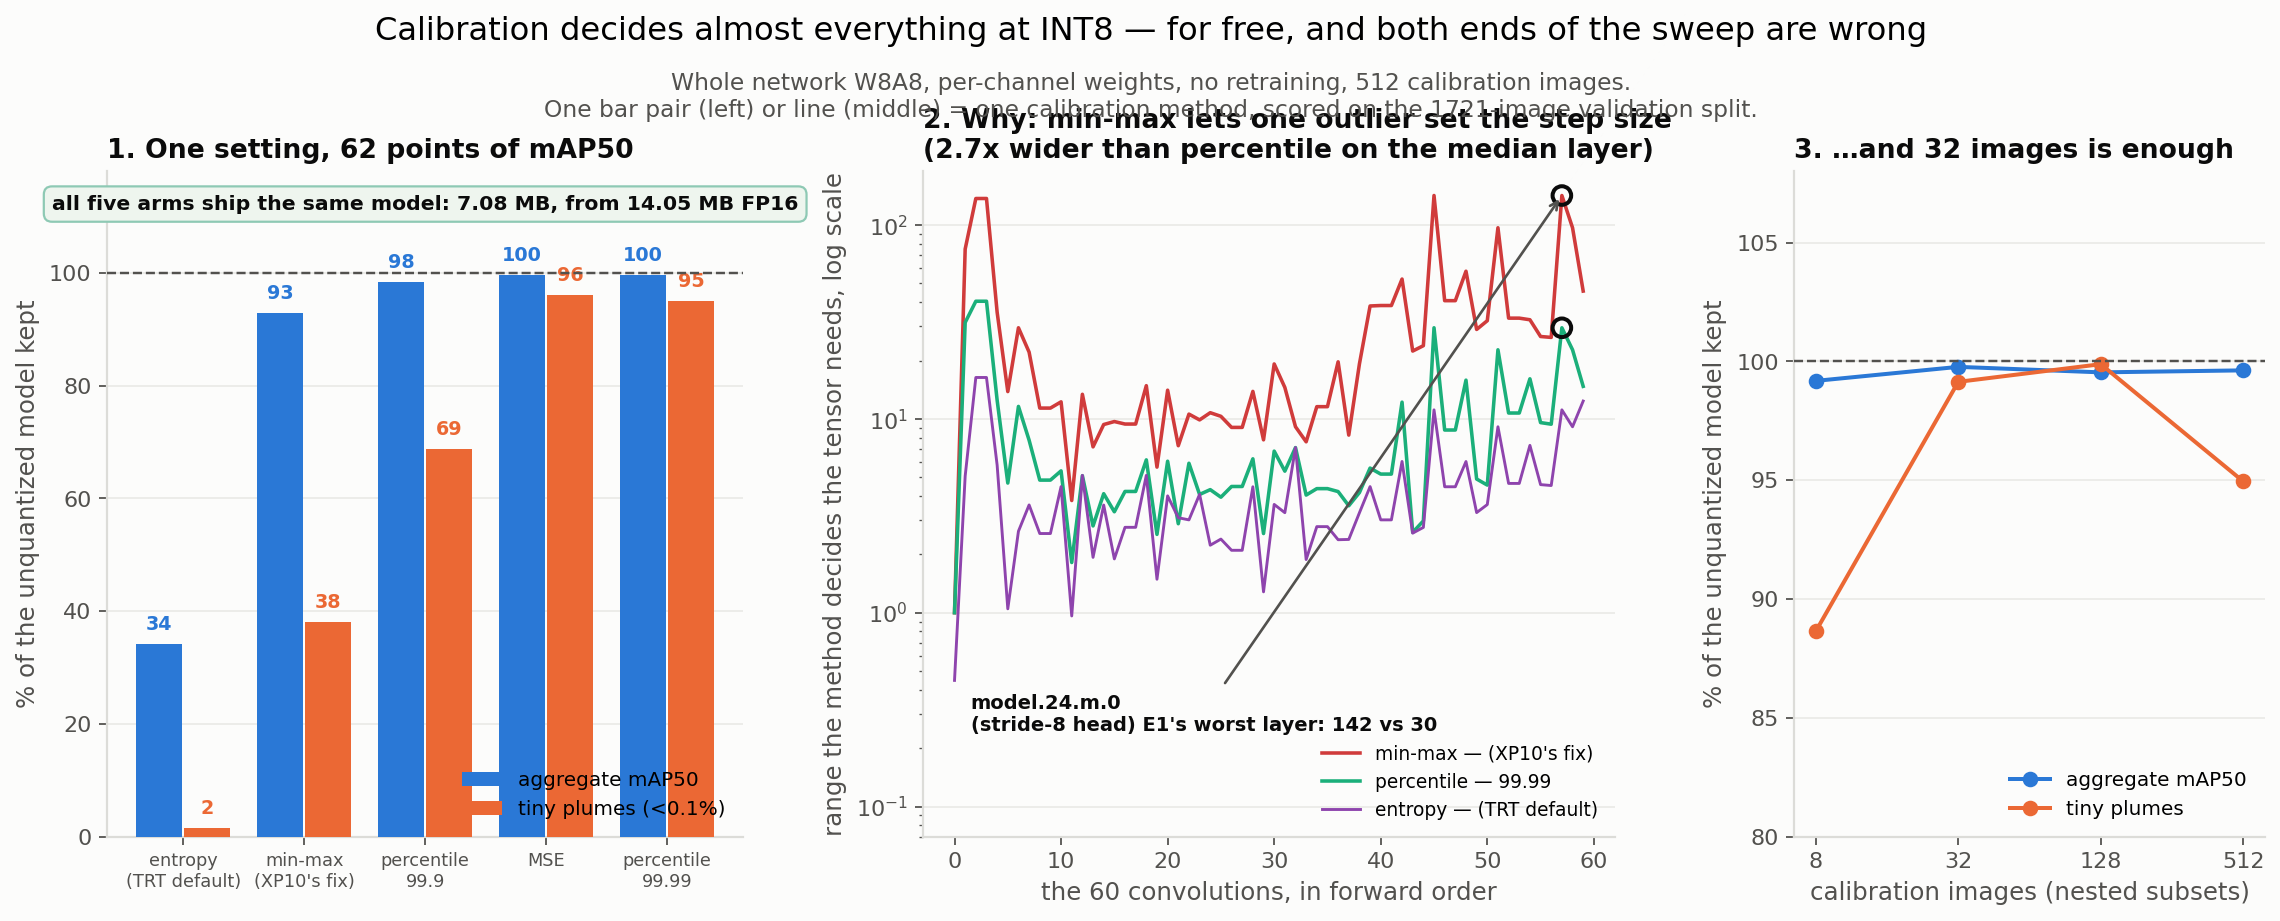
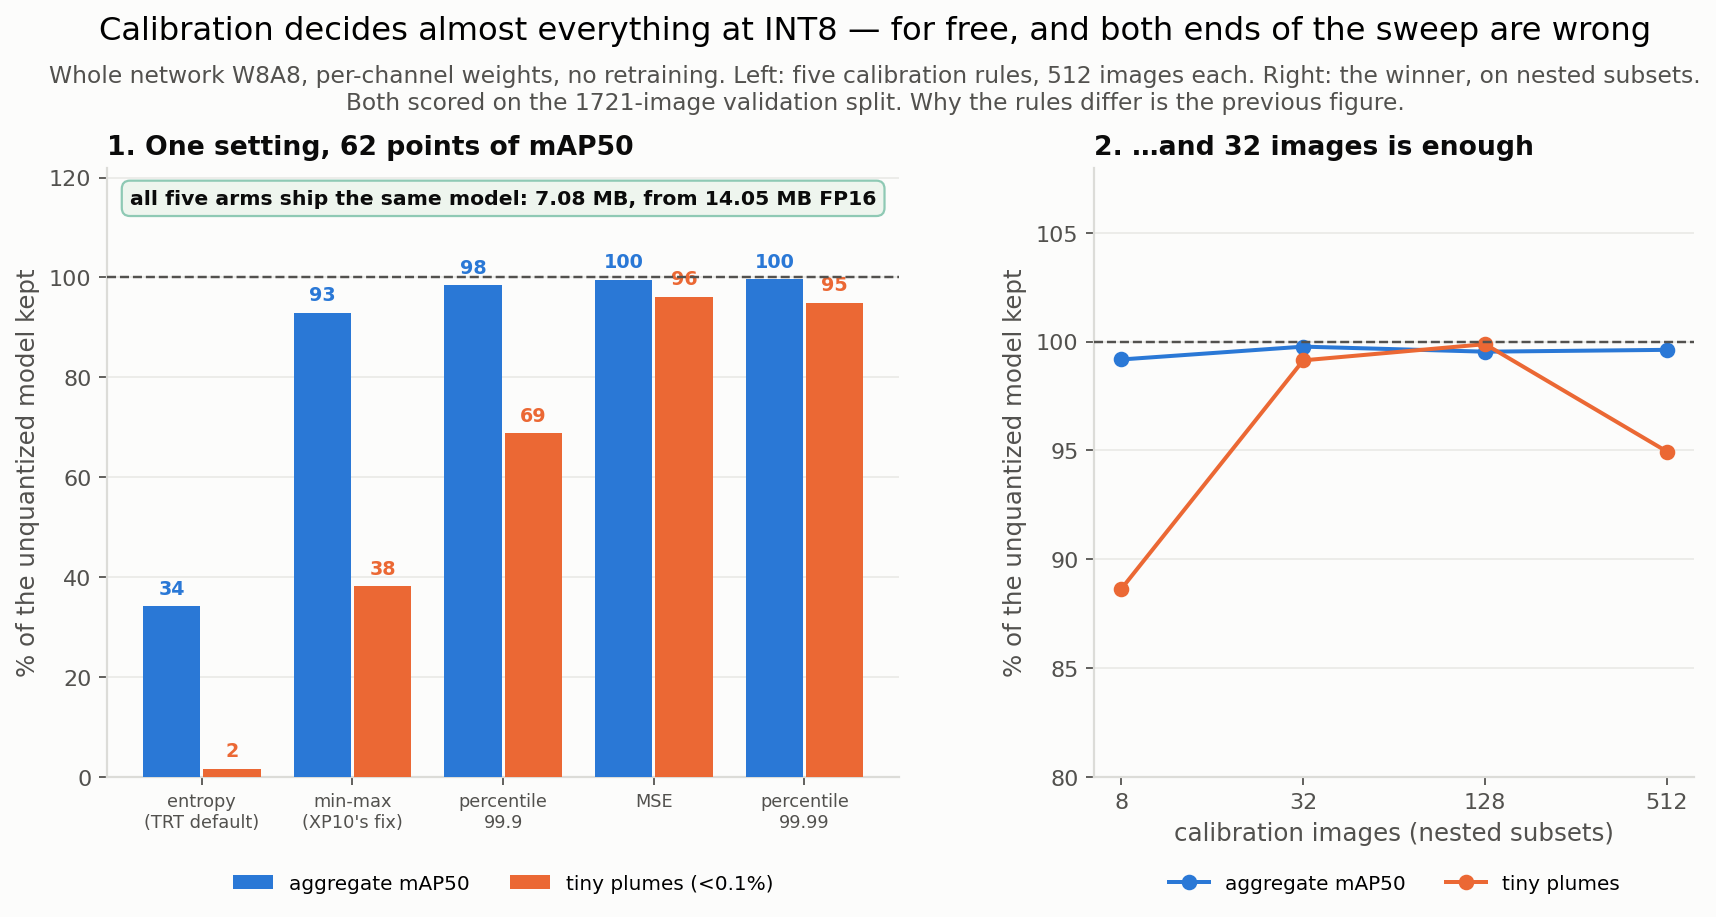
XP7-E2: cut the results figure to two panels and fix its collisions
The three-panel version had overlaps in several places: the middle panel's
two-line title ran into the figure subtitle, and panel 1's legend sat on top
of the MSE and percentile bars.

The middle panel - per-layer ranges chosen by each method - is dropped. It was
the mechanism, and the mechanism now has its own figure (xp07_clipping.png),
which explains it better than a 60-line plot did. Its measured claim survives
as text in the README: min-max is 2.7x wider on the median layer, up to 8.6x.

What remains is the two things E2 actually measured:
  1. which rule you pick    - 62 points of mAP50, all shipping 7.08 MB
  2. how much data it needs - 32 images

Both legends moved outside the axes, so nothing can sit on a bar again.

diff --git a/analysis/make_figures.py b/analysis/make_figures.py
@@ -2905,13 +2905,14 @@ def fig_xp07e2(records) -> Path | None:
             "percentile_99.9": "percentile\n99.9",
             "mse": "MSE", "percentile_99.99": "percentile\n99.99"}
 
-    fig = plt.figure(figsize=(17.4, 5.4))
-    gs = fig.add_gridspec(1, 3, width_ratios=[1.15, 1.25, 0.85], wspace=0.30)
+    fig = plt.figure(figsize=(12.8, 5.6))
+    gs = fig.add_gridspec(1, 2, width_ratios=[1.32, 1.0], wspace=0.28)
     fig.suptitle("Calibration decides almost everything at INT8 — for free, and both ends "
-                 "of the sweep are wrong", y=1.06, fontsize=14.5)
-    style.subtitle(fig, "Whole network W8A8, per-channel weights, no retraining, 512 calibration "
-                        "images.\nOne bar pair (left) or line (middle) = one calibration method, "
-                        f"scored on the {d['n_val_images']}-image validation split.", y=0.995)
+                 "of the sweep are wrong", y=1.05, fontsize=14.5)
+    style.subtitle(fig, "Whole network W8A8, per-channel weights, no retraining. Left: five "
+                        "calibration rules, 512 images each. Right: the winner, on nested "
+                        f"subsets.\nBoth scored on the {d['n_val_images']}-image validation "
+                        "split. Why the rules differ is the previous figure.", y=0.995)
 
     # ---- panel 1: what each method costs --------------------------------
     ax = fig.add_subplot(gs[0, 0])
@@ -2932,6 +2933,7 @@ def fig_xp07e2(records) -> Path | None:
     ax.set_ylim(0, 118)
     ax.set_ylabel("% of the unquantized model kept")
     ax.set_title("1. One setting, 62 points of mAP50", fontsize=12, loc="left")
+    ax.set_ylim(0, 122)
     # Every arm ships the same bytes, which is what makes the spread free.
     sz = {m: (meth[m].get("size") or {}).get("total_mb") for m in order}
     same = {v for v in sz.values() if v}
@@ -2942,46 +2944,12 @@ def fig_xp07e2(records) -> Path | None:
                 transform=ax.transAxes, ha="center", va="top", fontsize=9.2,
                 color=style.INK, fontweight="bold",
                 bbox=dict(boxstyle="round,pad=0.4", fc="#eef5ee", ec="#8ec9b4", lw=1.0))
-    ax.legend(loc="lower right", fontsize=9)
+    ax.legend(loc="upper center", bbox_to_anchor=(0.5, -0.13), ncol=2,
+              fontsize=9, frameon=False)
     style.tidy(ax)
 
-    # ---- panel 2: the mechanism -----------------------------------------
+    # ---- panel 2: and how much data it needs ----------------------------
     ax = fig.add_subplot(gs[0, 1])
-    layers = list(meth["minmax"]["scales"])
-    xs = np.arange(len(layers))
-    for m, colour, lw in (("minmax", style.RED, 1.6),
-                          ("percentile_99.99", style.AQUA, 1.6),
-                          ("entropy", "#8e44ad", 1.3)):
-        ax.plot(xs, [meth[m]["scales"][n] for n in layers], color=colour, lw=lw,
-                zorder=3, label=nice[m].replace("\n", " — "))
-    ax.set_yscale("log")
-    ax.set_ylim(bottom=0.07)          # headroom below the lines for the callout + legend
-    key = "model.24.m.0"
-    if key in meth["minmax"]["scales"]:
-        i = layers.index(key)
-        ax.scatter([i, i], [meth["minmax"]["scales"][key],
-                            meth["percentile_99.99"]["scales"][key]],
-                   s=70, facecolor="none", edgecolor=style.INK, linewidth=1.8, zorder=5)
-        ax.annotate(f"{key} — the stride-8 head,\nE1's worst layer: "
-                    f"{meth['minmax']['scales'][key]:.0f} vs "
-                    f"{meth['percentile_99.99']['scales'][key]:.0f}".replace(
-                        " — the stride-8 head,\n", "\n(stride-8 head) "),
-                    xy=(i, meth["minmax"]["scales"][key]), xytext=(1.5, 0.30),
-                    ha="left", va="center", fontsize=8.8, color=style.INK,
-                    fontweight="bold", zorder=6,
-                    bbox=dict(boxstyle="round,pad=0.35", fc=style.SURFACE, ec="none",
-                              alpha=0.93),
-                    arrowprops=dict(arrowstyle="->", color=style.INK_2, lw=1.2))
-    ax.set_xlabel("the 60 convolutions, in forward order")
-    ax.set_ylabel("range the method decides the tensor needs, log scale")
-    ax.set_title("2. Why: min-max lets one outlier set the step size\n"
-                 "(2.7x wider than percentile on the median layer)",
-                 fontsize=12, loc="left")
-    ax.legend(loc="lower right", fontsize=8.4)
-    style.tidy(ax)
-
-    # ---- panel 3: and how much data it needs ----------------------------
-    ax = fig.add_subplot(gs[0, 2])
     sizes = d.get("sizes") or {}
     ns = sorted(int(k) for k in sizes)
     if ns:
@@ -2996,10 +2964,12 @@ def fig_xp07e2(records) -> Path | None:
         ax.set_ylim(80, 108)
     ax.set_xlabel("calibration images (nested subsets)")
     ax.set_ylabel("% of the unquantized model kept")
-    ax.set_title("3. …and 32 images is enough", fontsize=12, loc="left")
-    ax.legend(loc="lower right", fontsize=9)
+    ax.set_title("2. …and 32 images is enough", fontsize=12, loc="left")
+    ax.legend(loc="upper center", bbox_to_anchor=(0.5, -0.13), ncol=2,
+              fontsize=9, frameon=False)
     style.tidy(ax)
 
+    fig.subplots_adjust(top=0.88, bottom=0.20)
     return save(fig, "xp07e2_calibration.png")
 
 
